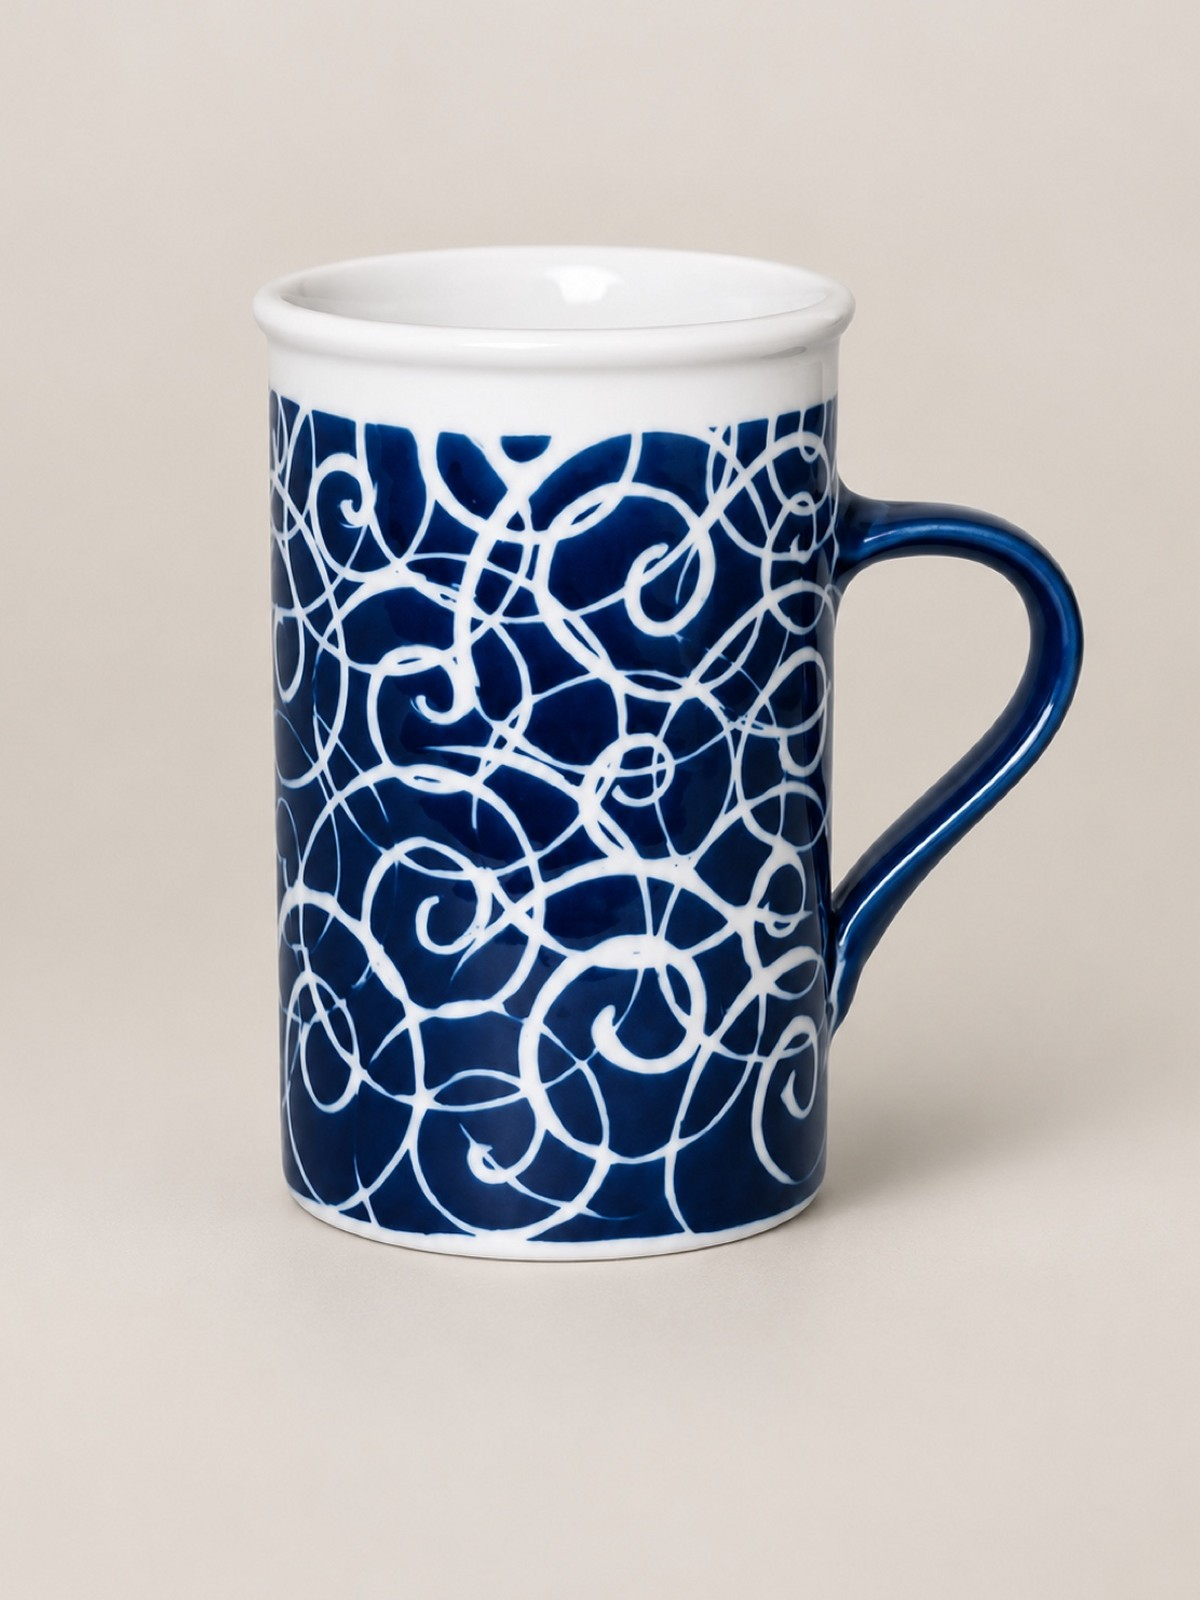
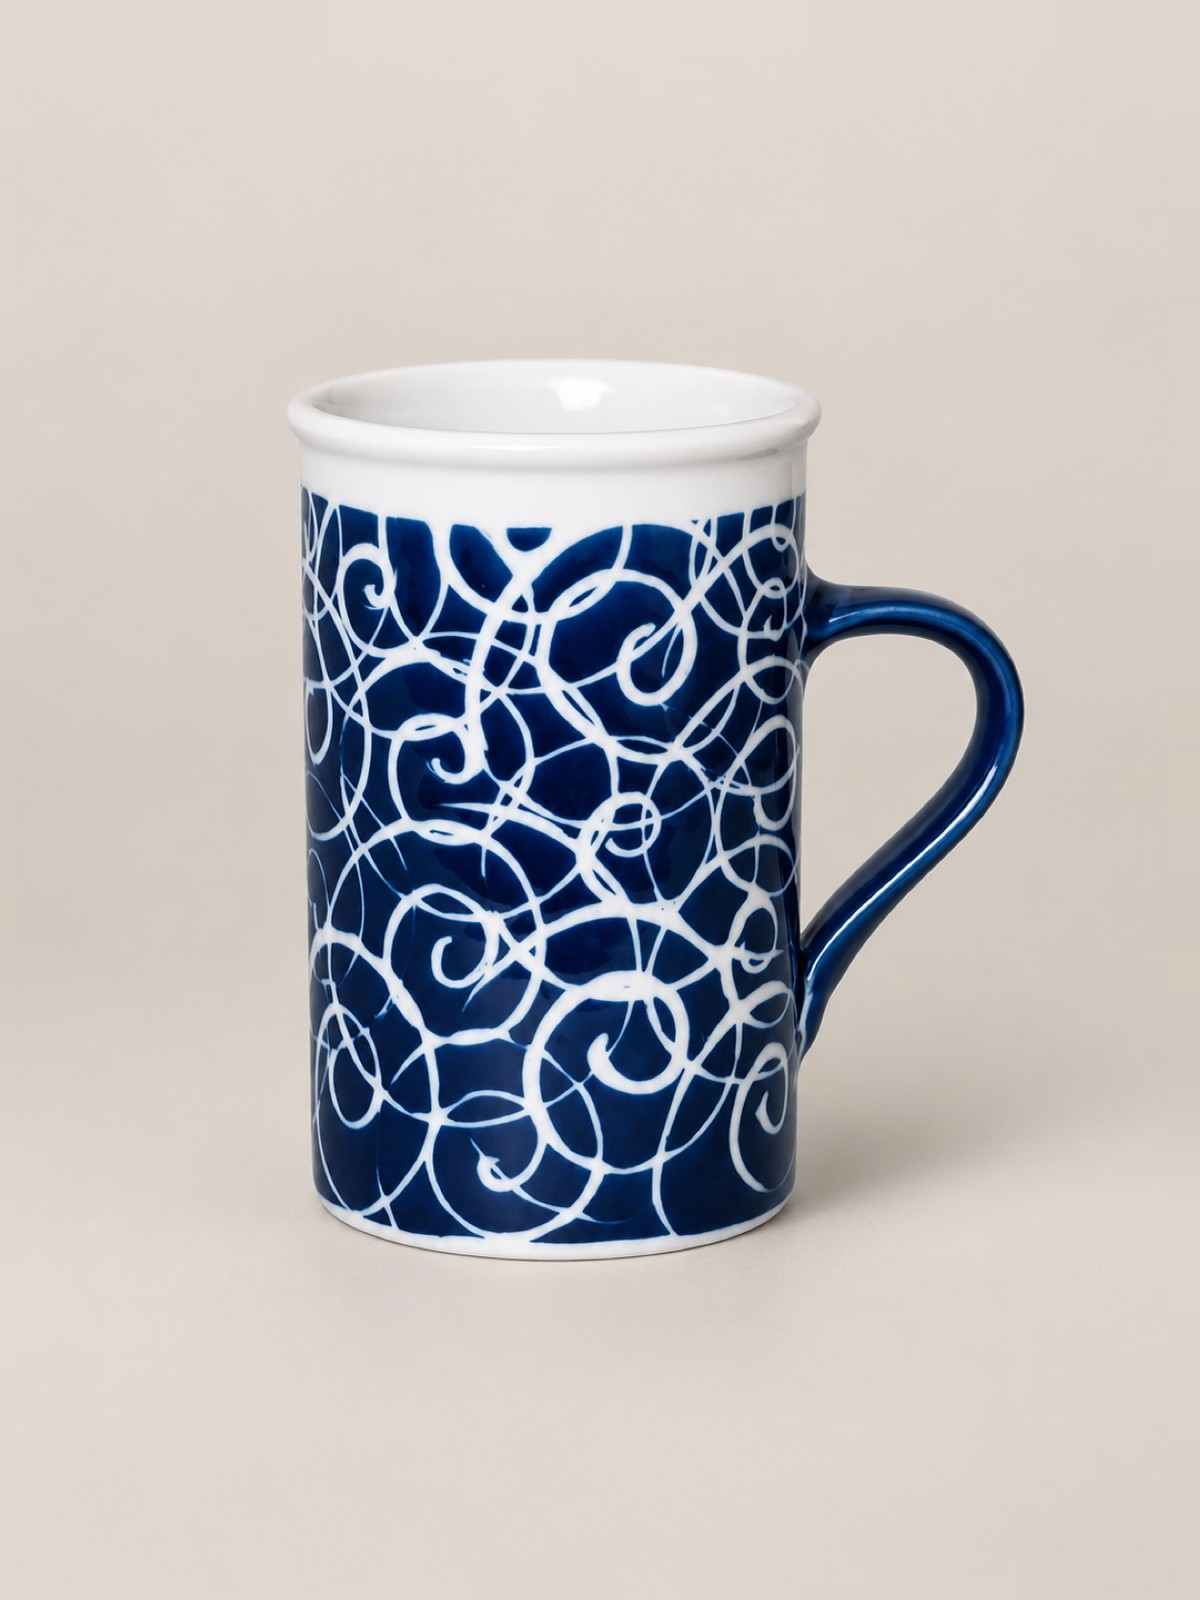
Mugs: rims the detector missed, bike and ski forever removed
The outline detector lost the white rim over a painted band on seven mugs
(pitný režim and velký se spirálami, úzký s deštníkem, four mini mugs), so
it measured them too low and the alignment blew them up. mugbox.py now
climbs on over rows brighter than the background; those photos are
re-aligned from the originals and match their kind's height. The other
148 mug photos measure as before.

The mini mugs bike forever and ski forever are off the site (Sami,
November 2026); their old URLs need redirects in phase 7.

Claude-Session: https://claude.ai/code/session_01WcryRPSdf7xtCXEp8sfC3E

Changed region(s): [[0.2158, 0.1562, 0.925, 0.7812]]

diff --git a/scripts/align-photos/mugbox.py b/scripts/align-photos/mugbox.py
@@ -48,6 +48,18 @@ def box(path):
     rows = np.nonzero(m.sum(axis=1) >= 6)[0]
     cols = np.nonzero(m.sum(axis=0) >= 6)[0]
     top, bottom = int(rows.min()), int(rows.max())
+    left, right = int(cols.min()), int(cols.max())
+    # A white rim above a painted band can lose touch with the outline (the
+    # spiral mugs): climb on while the rows over the piece stay brighter than
+    # the background, allowing a few rows' gap.
+    over = (lum - bg.mean(axis=2))[:, left:right + 1] > 14
+    y, gap = top - 1, 0
+    while y > 0 and gap <= 3:
+        if over[y].sum() >= 6:
+            top, gap = y, 0
+        else:
+            gap += 1
+        y -= 1
     h = bottom - top
     # Body centre from the foot, below where the handle joins.
     band = m[bottom - int(h * 0.08): bottom - int(h * 0.03)]
@@ -56,7 +68,6 @@ def box(path):
     # its brass rings (warm colours the outline above leaves out).
     warm = ndimage.binary_opening((r - b > 50) & (lum < 250), iterations=2)
     lab, n = ndimage.label(warm)
-    left, right = int(cols.min()), int(cols.max())
     full_top = top
     for i, sl in enumerate(ndimage.find_objects(lab)):
         ys, xs = sl

diff --git a/CLAUDE.md b/CLAUDE.md
@@ -89,7 +89,7 @@ The old site is read-only for us. Never log in, never write to it.
 
 Old shop counts for sanity checks: 294 modrobílý porcelán, 37 Martin, 85 Daniela.
 
-**Done (phase 2).** The Store API works; the import matched all counts. Report in `scripts/data/import-report.md`. Images are the largest size WordPress serves; 48 of them WordPress had scaled to 2560 px on upload, the camera originals (about 150 MB) were not downloaded. Each product owns `src/assets/products/<slug>/01.jpg…`, even where the old shop reused a photo, so swapping a photo touches one product only. Re-running the import overwrites `src/content/products/`, so after hand edits start (featured, makers, fixes) stop re-running it or teach it to keep them.
+**Done (phase 2).** The Store API works; the import matched all counts. Report in `scripts/data/import-report.md`. Images are the largest size WordPress serves; 48 of them WordPress had scaled to 2560 px on upload, the camera originals (about 150 MB) were not downloaded. Each product owns `src/assets/products/<slug>/01.jpg…`, even where the old shop reused a photo, so swapping a photo touches one product only. Re-running the import overwrites `src/content/products/`, so after hand edits start (featured, makers, fixes) stop re-running it or teach it to keep them. Removed on Sami's request (November 2026): the mini mugs bike forever and ski forever; their old URLs need redirects in phase 7.
 
 ## Product schema
 

diff --git a/TODO.md b/TODO.md
@@ -33,6 +33,7 @@ Otevřené otázky a chybějící fakta. Rozhoduje Sami. V kódu jsou místa ozn
 - [ ] Budou Daniela a Martin přidávat produkty sami? Pokud ano, po spuštění git CMS (Decap nebo Pages CMS).
 - [x] Návštěva dílny: pouze po telefonickém dohovoru, adresa na stránce Kontakt není (Sami, listopad 2026).
 - [x] Adresa v patičce zůstává (Sami, listopad 2026).
+- [x] Mini hrnky „bike forever“ a „ski forever“ odstraněny z webu (Sami, listopad 2026). Fotky a data jsou v historii gitu, ve `scripts/data/` zůstávají. Ve fázi 7 přesměrovat jejich staré adresy (`/produkt/porcelanovy-mini-hrnek-bike-forever/`, `…-ski-forever/`) na výpis mini hrnků.
 - [ ] Úvodní stránka podle `kosovi_homepage.pdf`: v PDF není claim („Od modrobílého porcelánu…“), proto na stránce teď chybí. Vrátit ho?
 - [x] Hlavička podle `kosovi_homepage.pdf` (Sami, listopad 2026): „EN“ místo „Košík“, „Daniela a Martin Kosovi“ větší a na pozici z PDF. Košík se v menu objeví, jen když v něm něco je.
 - [ ] Patička v `kosovi_homepage.pdf` má tři sloupce bez právních odkazů (obchodní podmínky atd.). Na webu zatím zůstává dosavadní patička se čtyřmi sloupci. Změnit?

diff --git a/scripts/align-photos/README.md b/scripts/align-photos/README.md
@@ -45,3 +45,5 @@ python3 -m venv .venv && .venv/bin/pip install numpy scipy pillow
 `kontrola.jpg` ukazuje nalezené obrysy (červeně), osu podle spodku (zeleně)
 a nejvyšší bod včetně ratanového ucha (oranžově).
 Bílé předměty (bábovky, bílé podšálky) skript na světlém pozadí nenajde.
+Bílý okraj nad malovaným pruhem (hrnky se spirálami, některé mini hrnky)
+se od obrysu odtrhne, `mugbox.py` ho proto dohledá řádek po řádku nad ním.
